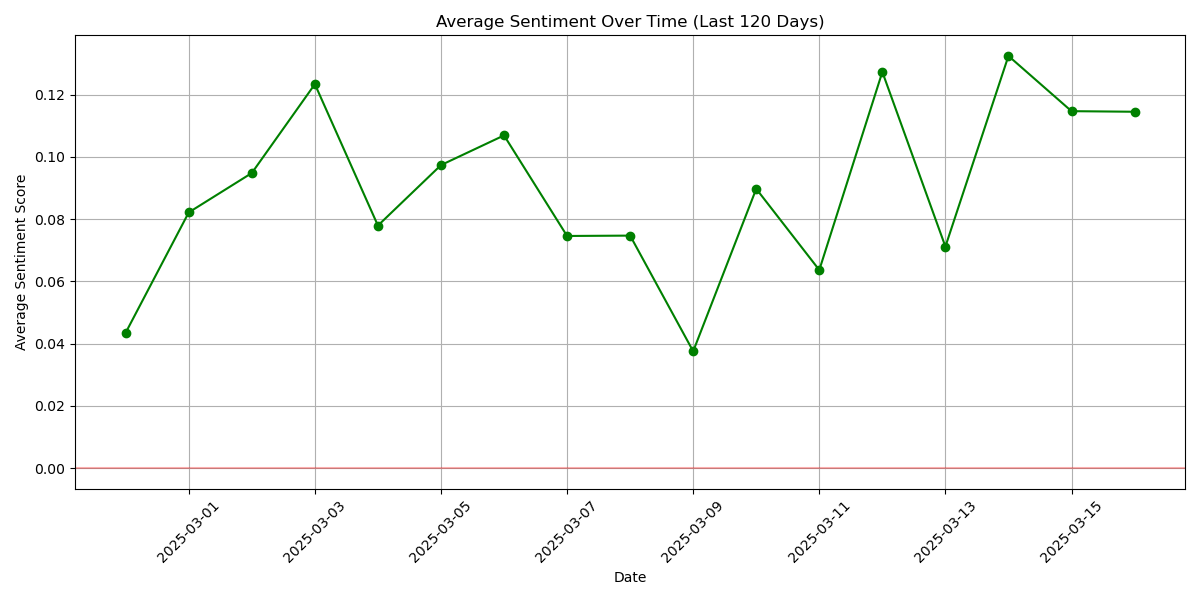
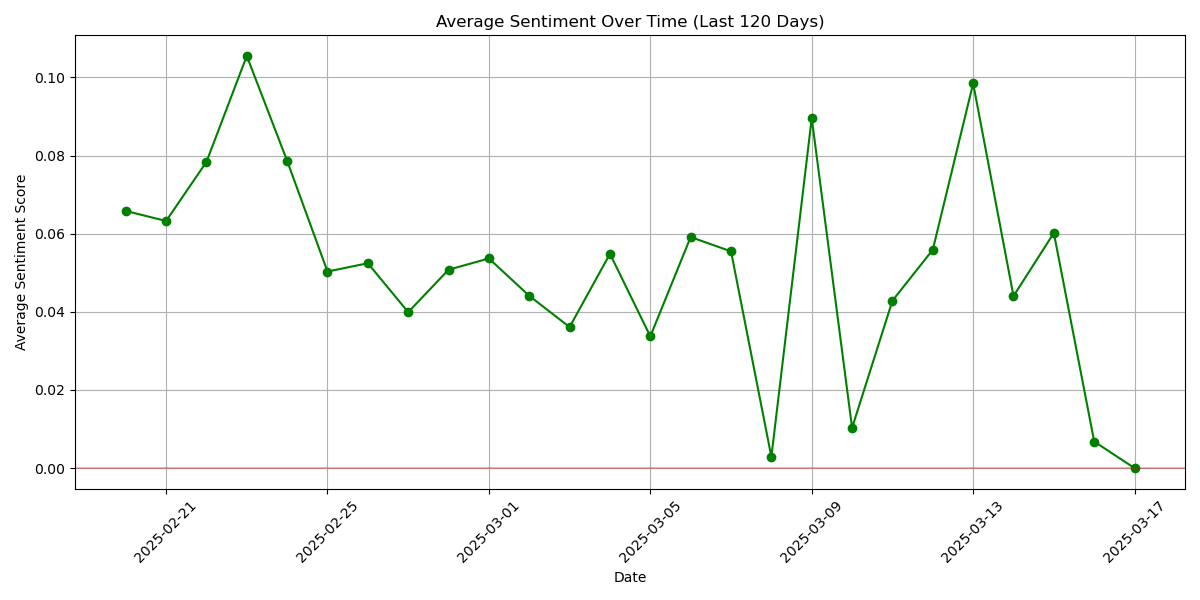
committed

diff --git a/app/app.py b/app/app.py
@@ -88,7 +88,6 @@ def fetch_subreddit_posts(subreddit, days_ago=30):
         sub = reddit.subreddit(subreddit[2:])  # Remove 'r/' prefix
         posts = []
         cutoff_time = datetime.now() - timedelta(days=days_ago)
-        # Fetch more posts to ensure coverage (up to 1000, Reddit's max per request)
         for submission in sub.new(limit=1000):  # Increased limit
             created_time = datetime.fromtimestamp(submission.created_utc)
             if created_time >= cutoff_time:
@@ -101,7 +100,7 @@ def fetch_subreddit_posts(subreddit, days_ago=30):
                     'subreddit': subreddit
                 })
             else:
-                break  # Stop if posts are older than 120 days
+                break  # Stop if posts are older than cutoff
         st.info(f"Fetched {len(posts)} posts from {subreddit} within the last {days_ago} days.")
         return posts
     except Exception as e:
@@ -283,10 +282,11 @@ def get_gemini_response(user_input, context):
     prompt = f"Given this context: {context}\n\nUser question: {user_input}\n\nProvide a clear, concise explanation."
     data = {"contents": [{"parts": [{"text": prompt}]}]}
     try:
-        response = requests.post(API_URL, headers=headers, json=data)
+        response = requests.post(API_URL, headers=headers, json=data, timeout=5)
         response.raise_for_status()
         return response.json()['candidates'][0]['content']['parts'][0]['text']
     except Exception as e:
+        st.error(f"Error: {e}")
         return f"Error: {e}"
 
 # Streamlit App
@@ -295,18 +295,16 @@ def main():
     st.write("Select a subreddit to analyze its posts over the last 120 days!")
 
     # List of subreddits for the dropdown
-    subreddit_options = ['r/anxiety', 'r/depression', 'r/mentalhealth', 'r/suicide','r/stress','/rIndianStockMarket','r/NSEbets','r/wallstreetbets','r/investing']
+    subreddit_options = ['r/anxiety', 'r/depression', 'r/mentalhealth', 'r/suicide', 'r/stress', '/rIndianStockMarket', 'r/NSEbets', 'r/wallstreetbets', 'r/investing']
     selected_subreddit = st.selectbox("Select Subreddit", subreddit_options)
 
     # Store selected subreddit in session state to detect changes
     if 'current_subreddit' not in st.session_state or st.session_state['current_subreddit'] != selected_subreddit:
-        # Drop previous database and create new one
         db_name = create_subreddit_db(selected_subreddit)
         if db_name:
             posts = fetch_subreddit_posts(selected_subreddit)
             store_posts(selected_subreddit, posts)
             st.session_state['current_subreddit'] = selected_subreddit
-            # Clear cache to force re-fetching
             st.cache_data.clear()
 
     # Fetch posts from the current subreddit's database
@@ -341,21 +339,23 @@ def main():
     # Specific context for the selected visualization
     viz_context = context_base + f"Current Visualization: {selected_viz}. This shows {selected_viz.lower()} for {selected_subreddit} over the last 120 days."
 
-    # Chatbot popup trigger
-    if st.button("💬 Chat about this visualization"):
-        with st.expander("Chat with Gemini", expanded=True):
-            if f"chat_history_{selected_viz}_{selected_subreddit}" not in st.session_state:
-                st.session_state[f"chat_history_{selected_viz}_{selected_subreddit}"] = []
+    # Chatbot section
+    st.subheader("Chatbot")
+    if f"chat_history_{selected_viz}_{selected_subreddit}" not in st.session_state:
+        st.session_state[f"chat_history_{selected_viz}_{selected_subreddit}"] = []
 
-            user_input = st.chat_input(f"Ask about {selected_viz} in {selected_subreddit}")
-            if user_input:
-                st.session_state[f"chat_history_{selected_viz}_{selected_subreddit}"].append({"role": "user", "text": user_input})
+    user_input = st.text_input(f"Ask about {selected_viz} in {selected_subreddit}", key=f"chat_input_{selected_viz}_{selected_subreddit}")
+    if st.button("Submit Question", key=f"submit_{selected_viz}_{selected_subreddit}"):
+        if user_input:
+            with st.spinner("Getting response from Gemini..."):
                 response = get_gemini_response(user_input, viz_context)
+                st.session_state[f"chat_history_{selected_viz}_{selected_subreddit}"].append({"role": "user", "text": user_input})
                 st.session_state[f"chat_history_{selected_viz}_{selected_subreddit}"].append({"role": "assistant", "text": response})
 
-            for message in st.session_state[f"chat_history_{selected_viz}_{selected_subreddit}"]:
-                with st.chat_message(message["role"]):
-                    st.write(message["text"])
+    if st.session_state[f"chat_history_{selected_viz}_{selected_subreddit}"]:
+        for message in st.session_state[f"chat_history_{selected_viz}_{selected_subreddit}"]:
+            with st.chat_message(message["role"]):
+                st.write(message["text"])
 
 if __name__ == "__main__":
     main()

diff --git a/streamlit_app/reddit_analysis.py b/streamlit_app/reddit_analysis.py
@@ -89,7 +89,7 @@ def create_subreddit_db(subreddit):
 
 # Fetch posts from Reddit with caching
 @st.cache_data(ttl=3600)
-def fetch_subreddit_posts(subreddit, days_ago=120):
+def fetch_subreddit_posts(subreddit, days_ago=60):
     try:
         sub = reddit.subreddit(subreddit[2:])
         posts = []
@@ -303,7 +303,7 @@ def get_gemini_response(user_input, context):
 # Main app
 def main():
     st.title("Subreddit Analysis with Chatbot 🚀")
-    st.write("Analyze subreddit posts over the last 120 days!")
+    st.write("Analyze subreddit posts over the last 60 days!")
 
     subreddit_options = ['r/anxiety', 'r/depression', 'r/mentalhealth', 'r/suicide', 'r/stress', '/rIndianStockMarket', 'r/NSEbets', 'r/wallstreetbets', 'r/investing']
     selected_subreddit = st.selectbox("Select Subreddit", subreddit_options)
